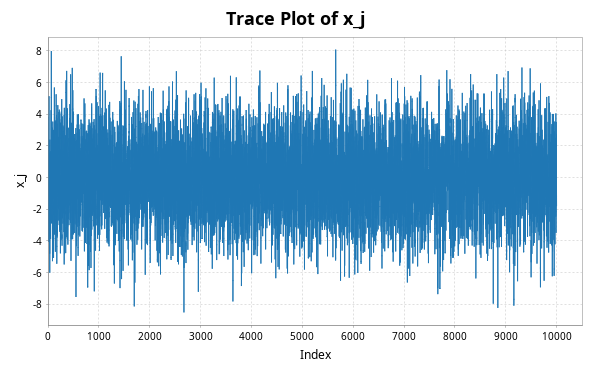
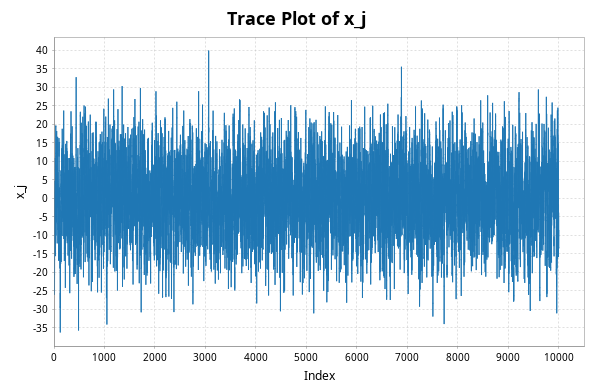
Reworked the b measure and added new results to the readme

Changed region(s): [[0.0305, 0.0297, 1.0, 0.9216], [0.4881, 0.9514, 0.5797, 0.9811], [0.061, 0.8919, 0.0915, 0.9216]]

diff --git a/readme.md b/readme.md
@@ -1,12 +1,12 @@
-- [The toy problem](#org26426e3)
-    - [Formalise this loose logic a little bit, the $b$ I'm computing is not the same as the $b$ in the paper](#orgbbb5855)
+- [The toy problem](#org0cc9889)
+    - [Formalise this loose logic a little bit, the $b$ I'm computing is not the same as the $b$ in the paper](#org5ee48ba)
 
 This is my attempt at implementing Adaptive Metropolis (or, as I prefer, Adaptive MRTH) in scala, using the breeze library.
 
 This is based on the example from the article "Examples of Adaptive MCMC" by Boberts and Rosenthal.
 
 
-<a id="org26426e3"></a>
+<a id="org0cc9889"></a>
 
 # The toy problem
 
@@ -168,14 +168,14 @@ where $\lambda_i$ are the eigenvalues of $\Sigma_p^{1/2}\Sigma^{-1/2}$ where $\S
 
 $b$ should approach 1 as the chain approaches the stationary distribution. Roughly, it measures the difference between the empirical and true variance matrices.
 
-Of course, getting the eigenvalues of $\Sigma_p^{1/2}\Sigma^{-1/2}$ isn't too trivial, since we probably don't want to compute these matrices directly. Luckily, since we have completely non-negative eigenvalues (from being variance matrices), we can use the following
+Of course, getting the eigenvalues of $\Sigma_p^{1/2}\Sigma^{-1/2}$ isn't too trivial, since we probably don't want to compute these matrices directly. Luckily, since we have completely non-negative eigenvalues (from being variance matrices), we can use the following co
 
 -   If $\lambda$ is an eigenvalue of $A$, then $\lambda^{1/2}$ is an eigenvalue of $A^{1/2}$
 -   If $\lambda$ is an eigenvalue of $A$, then $\lambda^{-1}$ is an eigenvalue of $A^{-1}$
 -   NOT TRUE in general [if $\lambda,\mu$ are eigenvalues of $A$ and $B$ respectively, then $\lambda\mu$ is an eigenvalue of $AB$] (gets closer as eigenvalues get closer, that's why it still kind of works)
 
 
-<a id="orgbbb5855"></a>
+<a id="org5ee48ba"></a>
 
 ### TODO Formalise this loose logic a little bit, the $b$ I'm computing is not the same as the $b$ in the paper
 
@@ -201,3 +201,11 @@ print("\n The b value is " + b)
 ```
 
 I get a value of $b\approx 1.000014612$, so it seems to be working.
+
+For `d=100`, `n=10000`, `burnin = 1000000`, and `thinrate=100`, I get
+
+The true variance of x<sub>1</sub> value is 87.24837703682367
+
+The Empirical sigma value is 85.1683515513272 The b value is 1.0035610613506012
+
+Which seems pretty good!
